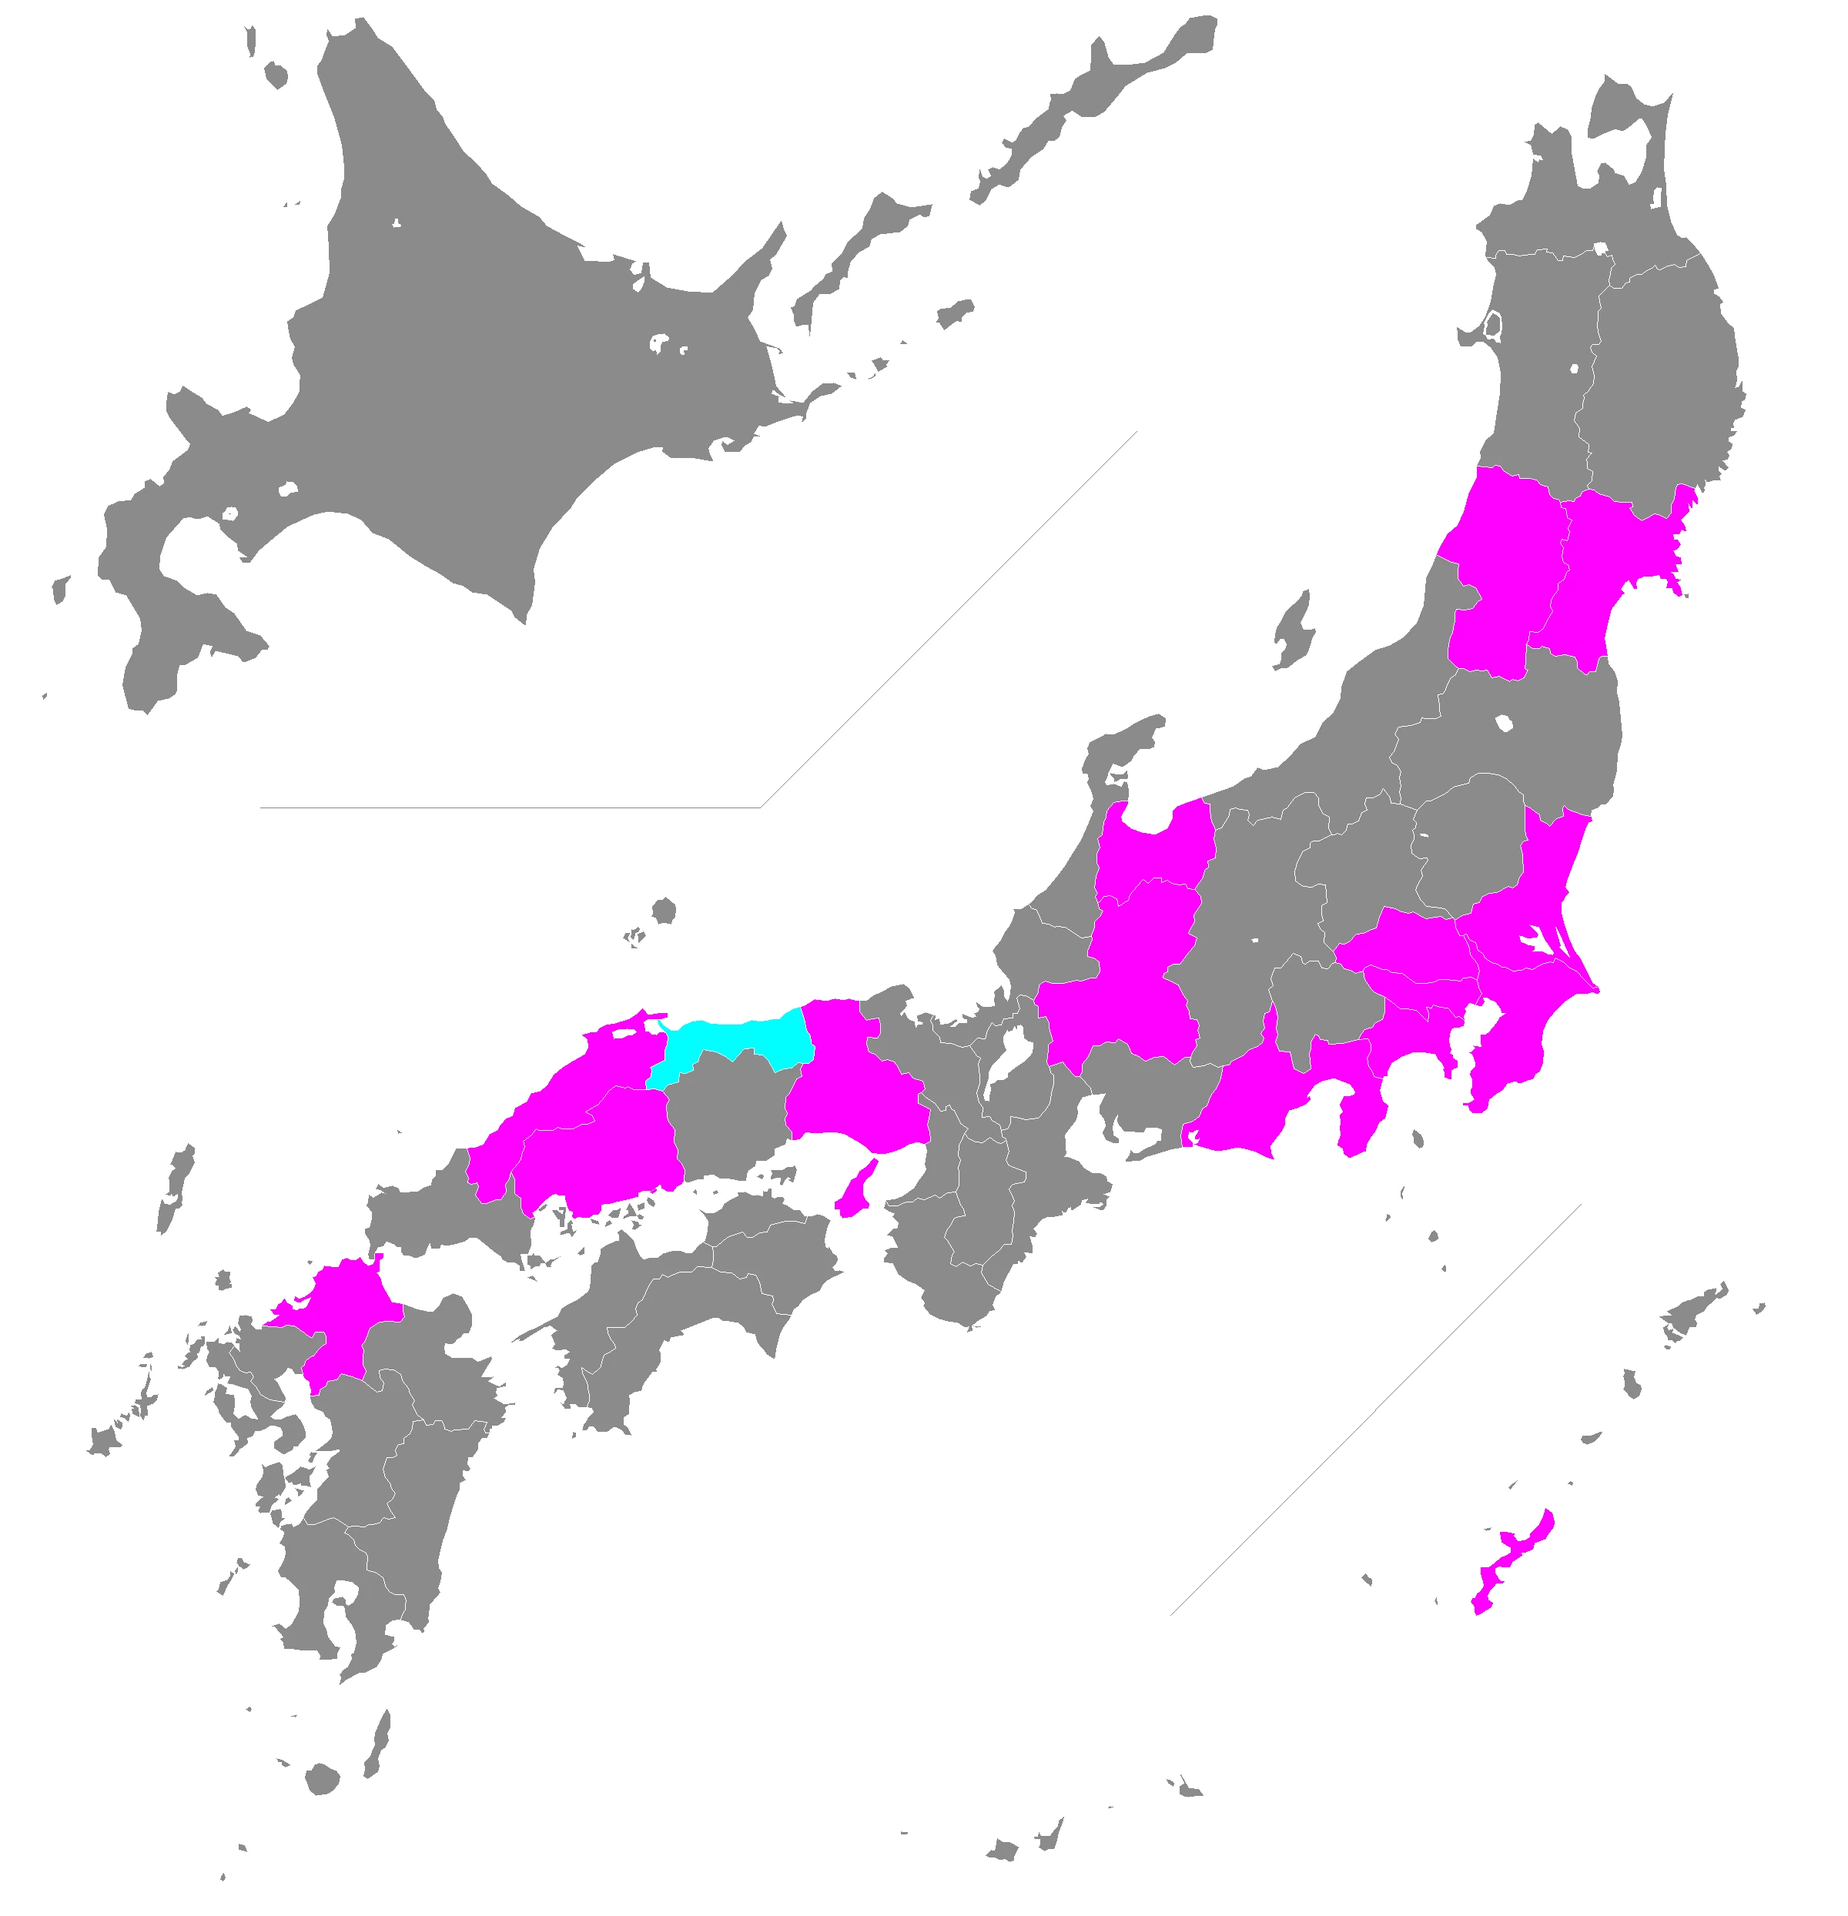
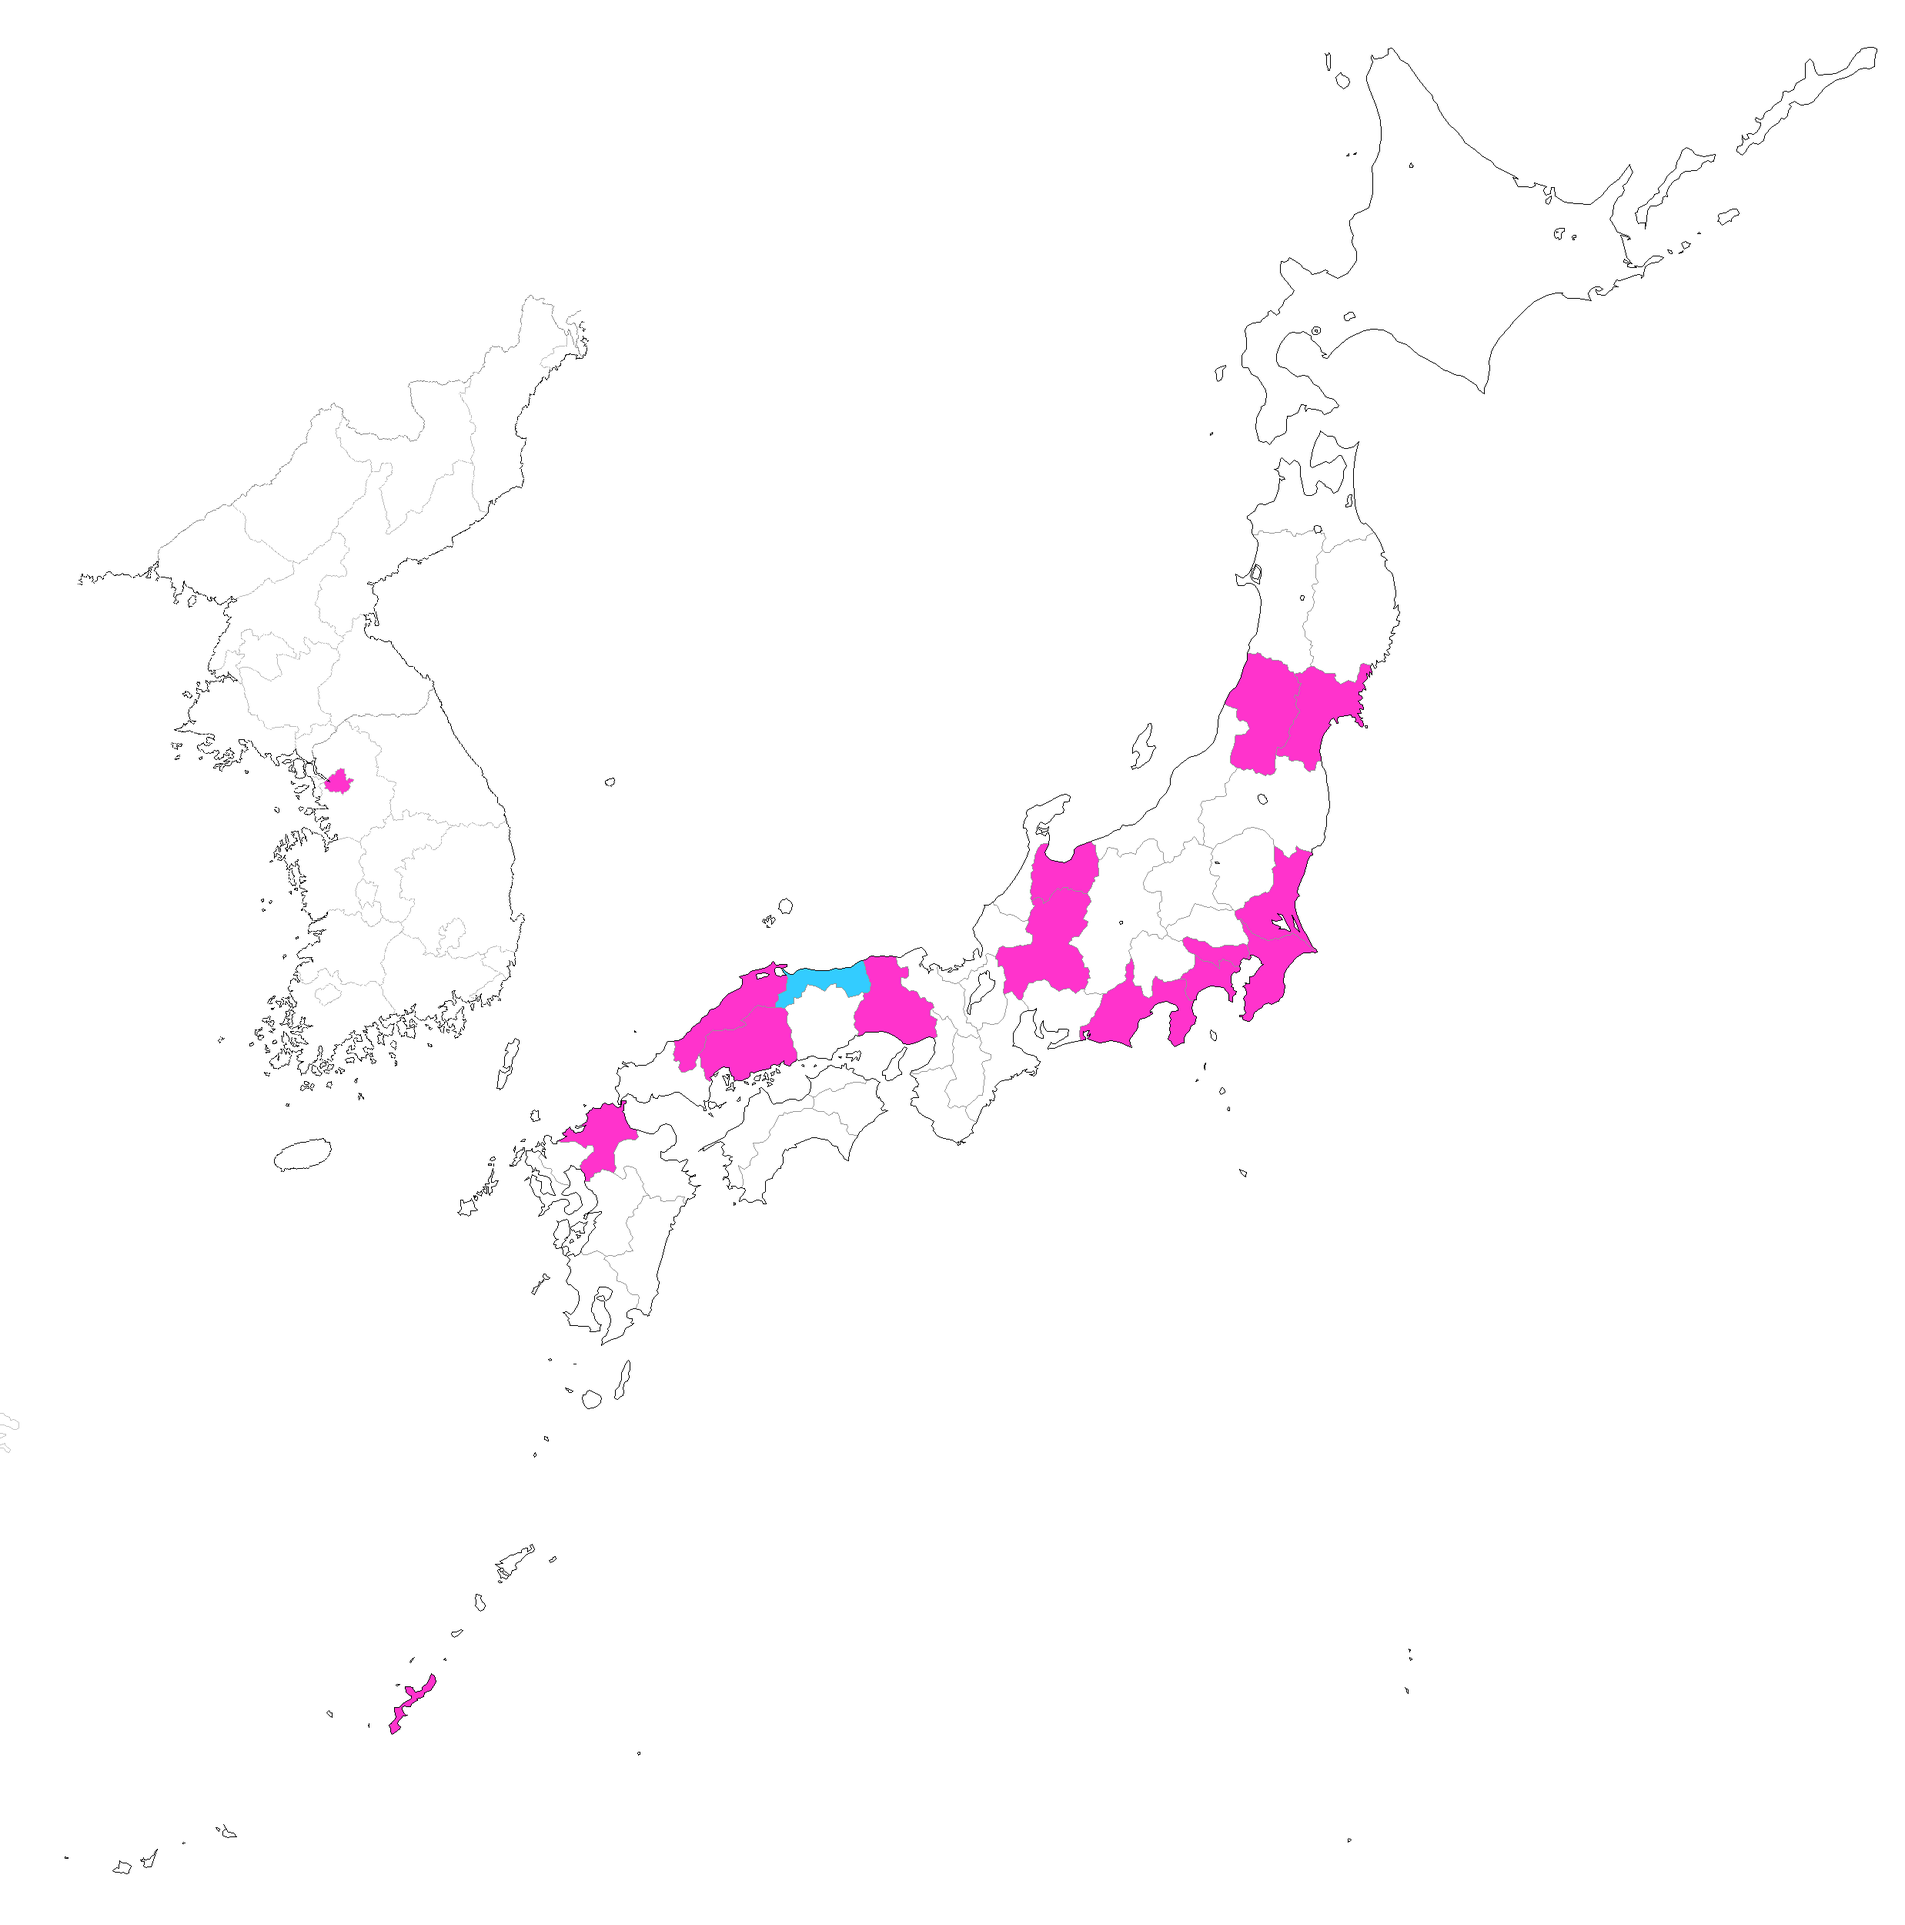
Update map

diff --git a/index.html b/index.html
@@ -168,7 +168,7 @@
           どうでしょうね。
           東京広域電話網はすでに名が体を表しておりません。
           電話局と電話機との分布を
-          それぞれ地図の<span style="color: #F0F;">マゼンタ</span>と<span style="color: #0FF;">シアン</span>との塗り潰しで示します。
+          それぞれ地図の<span style="color: #F3C;">ピンク色</span>と<span style="color: #3CF;">水色</span>との塗り潰しで示します。
           </p>
           <figure>
             <img src="./map.webp" alt="東京広域電話網における電話局と電話機との分布" width="800" height="830" loading="lazy" decoding="async">
